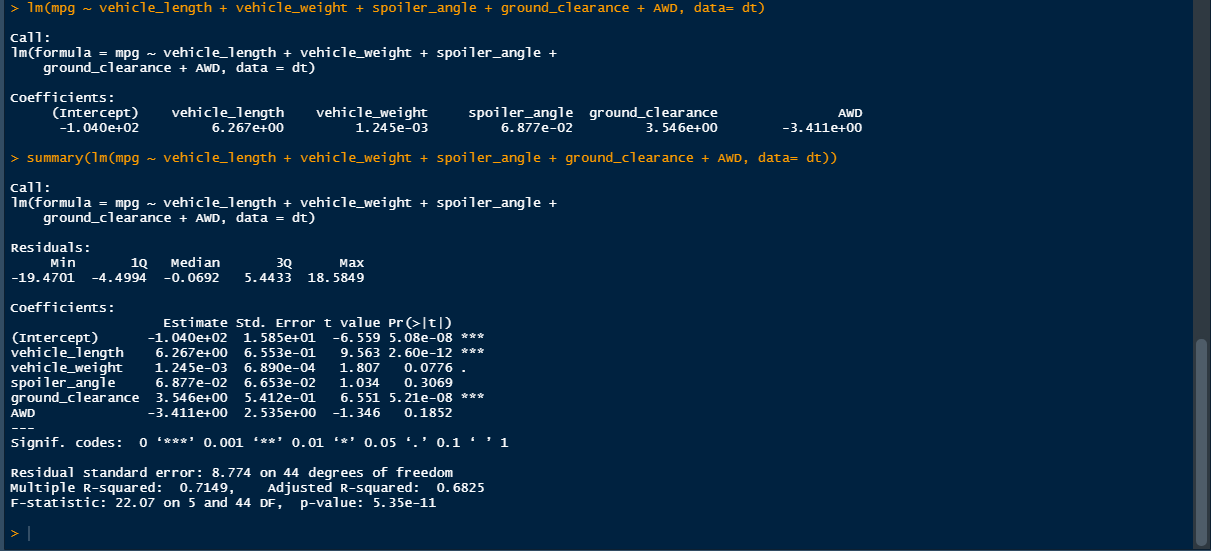
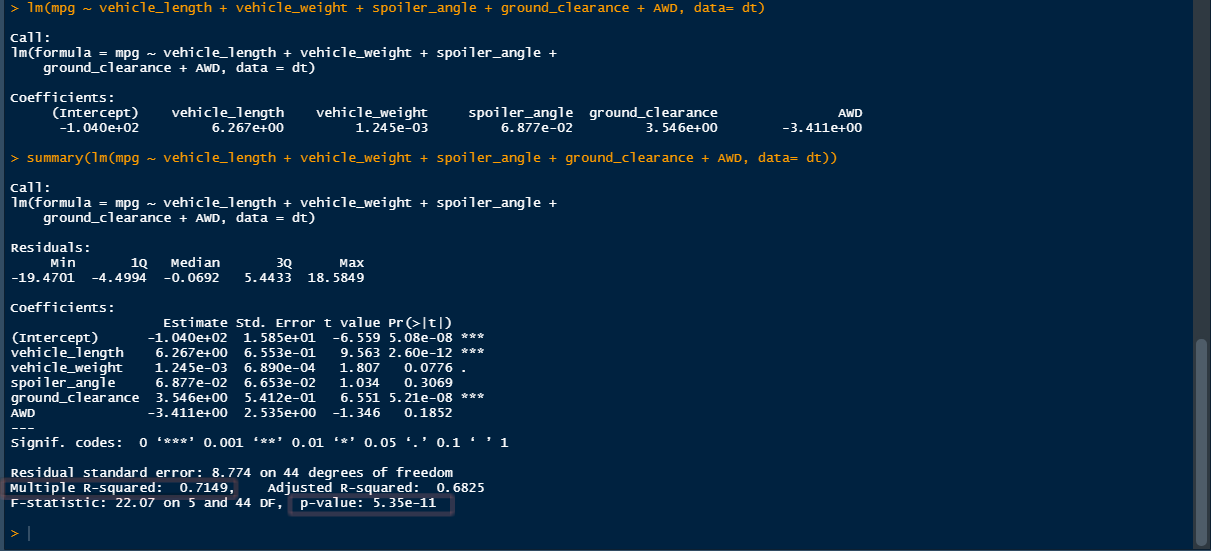
update

Changed region(s): [[0.0, 0.8639, 0.3972, 0.9564]]

diff --git a/README.md b/README.md
@@ -1,1 +1,49 @@
-# MechaCar_Statistical_Analysis-
+# MechaCar_Statistical_Analysis
+
+## Linear Regression to Predict MPG
+
+### Which variables/coefficients provided a non-random amount of variance to the mpg values in the dataset?
+
+The two factors that are contributing to a non-random variance are the Vehicle Length and the Ground Clearance as they both have a p-value around 0.5. Vehicle lenght comes in at 
+0.00000000000000022 which is nearly a zero and the ground clearance is at 0.0000000521. 
+
+![CODE1](Images/Dev_1.1.png)
+
+### Is the slope of the linear model considered to be zero? Why or why not?
+
+The slope of the linear model is not at a zero as we have Multiple R-squared value at 0.7149 and the p-value is less than 0.05%. 
+
+![CODE1](Images/Dev_1.png)
+
+### Does this linear model predict mpg of MechaCar prototypes effectively? Why or why not?
+
+Yes since our r-square value is about 71% and our p-value is less than 0.05% that tells us that that our predictions are correct.
+
+## Summary Statistics on Suspension Coils
+
+### The design specifications for the MechaCar suspension coils dictate that the variance of the suspension coils must not exceed 100 pounds per square inch. Does the current manufacturing data meet this design specification for all manufacturing lots in total and each lot individually? Why or why not?
+
+As we look at total summary we can see that our Psi_Variance of 62.29 meets the current manafacturing specifications. 
+
+![CODE1](Images/Dev_2.png)
+
+When comparing the indivudual lots we see that lot 1 is at 0.979 and lot 2 is at 7.46Psi which means they are both below 100PSI and meet the design specification. One that stands out the most is lot 3 with 170.28 PSI which is way above the required specification.  
+
+
+## T-Tests on Suspension Coils
+When looking at the overall T-test for the suspensions coils we can see that our p-value is at 0.06028 which is above the 0.05% and its not much different than the population mean. 
+
+![CODE1](Images/t-test_coil1.png)
+
+Lot1 and Lot2 are above the 0.05% which means they are not statisticly different from the population mean of 1,500PSI.
+
+![CODE1](Images/t-test_coil2.png)
+![CODE1](Images/t-test_coil3.png)
+
+When we are looking at our t-test on the suspension coils we can see that Lot3 data is reading p-value less than 0.05%. Lot 3 is statisticly different from the population mean of 1,500PSI. 
+
+![CODE1](Images/t-test_coil4.png)
+
+
+
+## Study Design: MechaCar vs Competition
